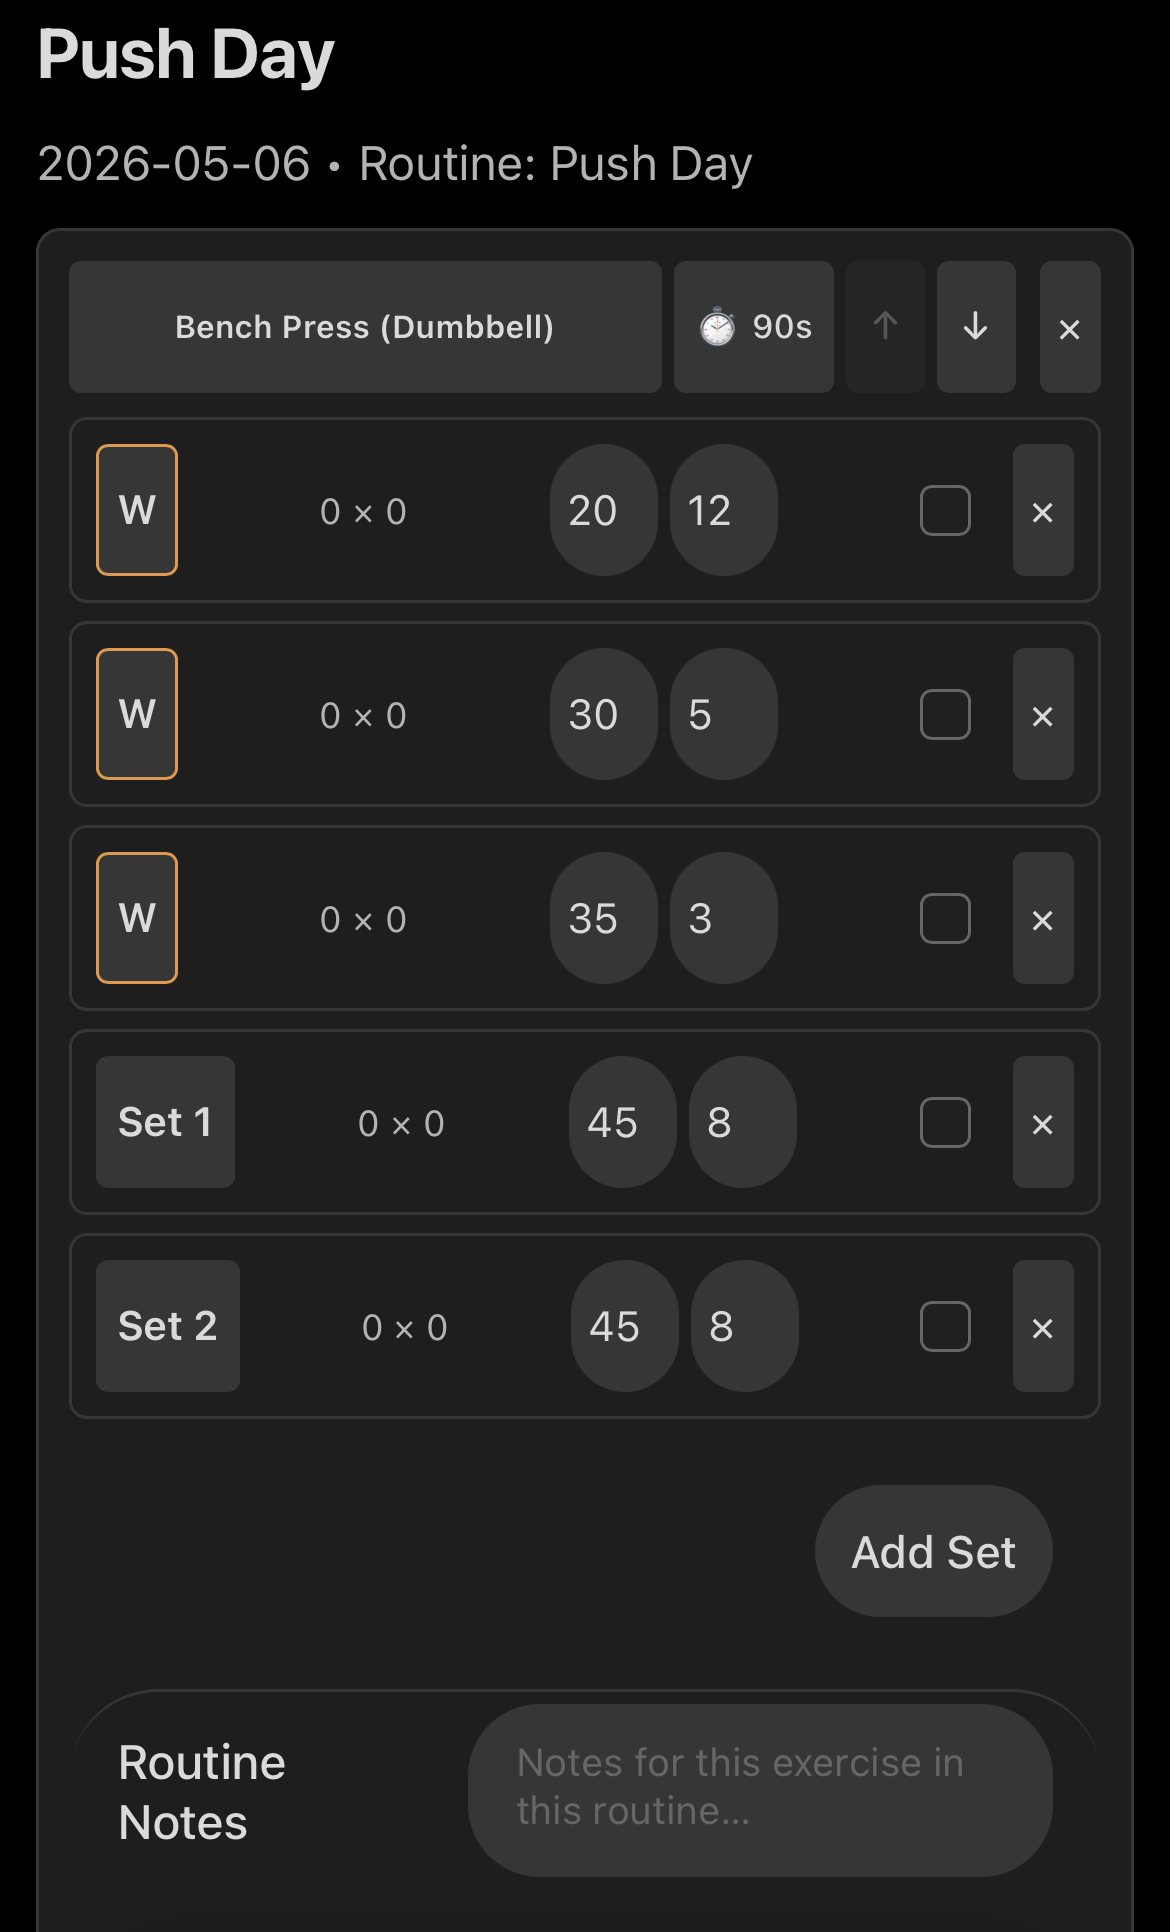
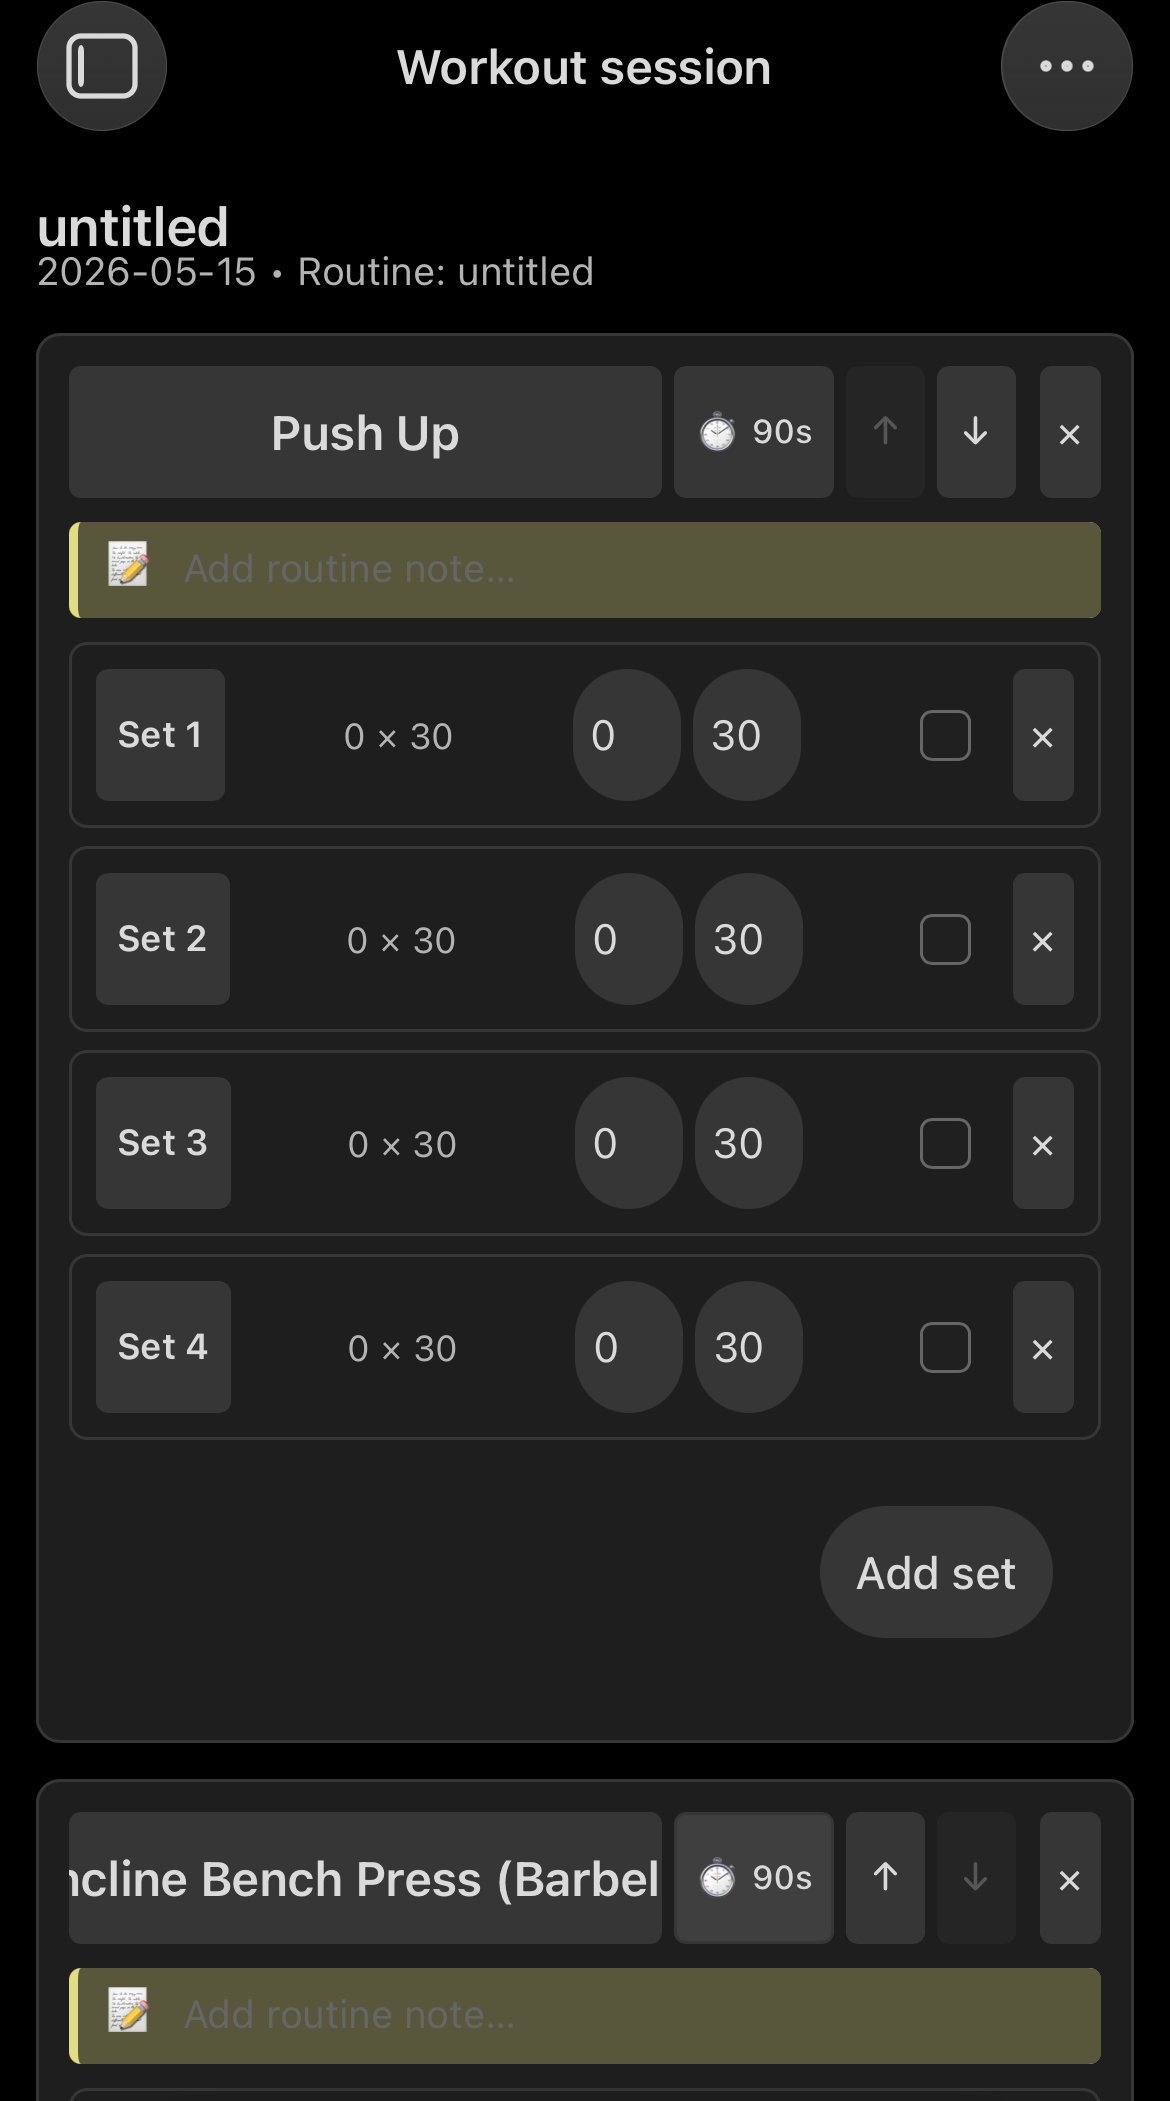
updated pictures in README; Workout journal -> Workout Journal

diff --git a/src/plugin.ts b/src/plugin.ts
@@ -93,7 +93,7 @@ export default class WorkoutTrackerPlugin extends Plugin {
     try {
       ribbonIcon = this.addRibbonIcon(
         "biceps-flexed",
-        "Workout journal",
+        "Workout Journal",
         openWorkoutTypeModal
       );
     } catch (error) {
@@ -104,7 +104,7 @@ export default class WorkoutTrackerPlugin extends Plugin {
       try {
         ribbonIcon = this.addRibbonIcon(
           "calendar",
-          "Workout journal",
+          "Workout Journal",
           openWorkoutTypeModal
         );
       } catch (fallbackError) {

diff --git a/src/modals/WorkoutTypeSelectionModal.ts b/src/modals/WorkoutTypeSelectionModal.ts
@@ -15,7 +15,7 @@ export class WorkoutTypeSelectionModal extends Modal {
     const { contentEl } = this;
     contentEl.empty();
 
-    contentEl.createEl("h2", { text: "Workout journal" });
+    contentEl.createEl("h2", { text: "Workout Journal" });
 
     new Setting(contentEl)
       .setName("Quick log")

diff --git a/src/settings/WorkoutTrackerSettingTab.ts b/src/settings/WorkoutTrackerSettingTab.ts
@@ -41,7 +41,7 @@ export class WorkoutTrackerSettingTab extends PluginSettingTab {
     containerEl.empty();
 
     containerEl.createEl("p", {
-      text: "Configure folders, tracking behavior, and library tools for Workout journal.",
+      text: "Configure folders, tracking behavior, and library tools for Workout Journal.",
       cls: "setting-item-description",
     });
 

diff --git a/README.md b/README.md
@@ -169,18 +169,17 @@ The plugin creates structured markdown files with YAML frontmatter for data stor
 
 ```markdown
 ---
-id: "1672531200000"
-date: "2025-06-26"
+wj-id: "1672531200000"
+wj-date: "2025-06-26"
 name: "Morning Run"
-duration: 30
-exercises:
+wj-duration: 30
+wj-exercises:
   - name: "Running"
     sets:
       - duration: 30
         distance: 3
-    notes: "Good pace, felt strong"
-notes: "Beautiful morning for a run"
-workoutTracker: true
+wj-notes: "Beautiful morning for a run"
+wj-type: workout
 ---
 
 # Morning Run
@@ -196,7 +195,6 @@ workoutTracker: true
 | --- | ---- | ------ | -------- | -------- | ---- |
 | 1   | -    | -      | 30       | 3        | -    |
 
-**Notes:** Good pace, felt strong
 
 ## Notes
 